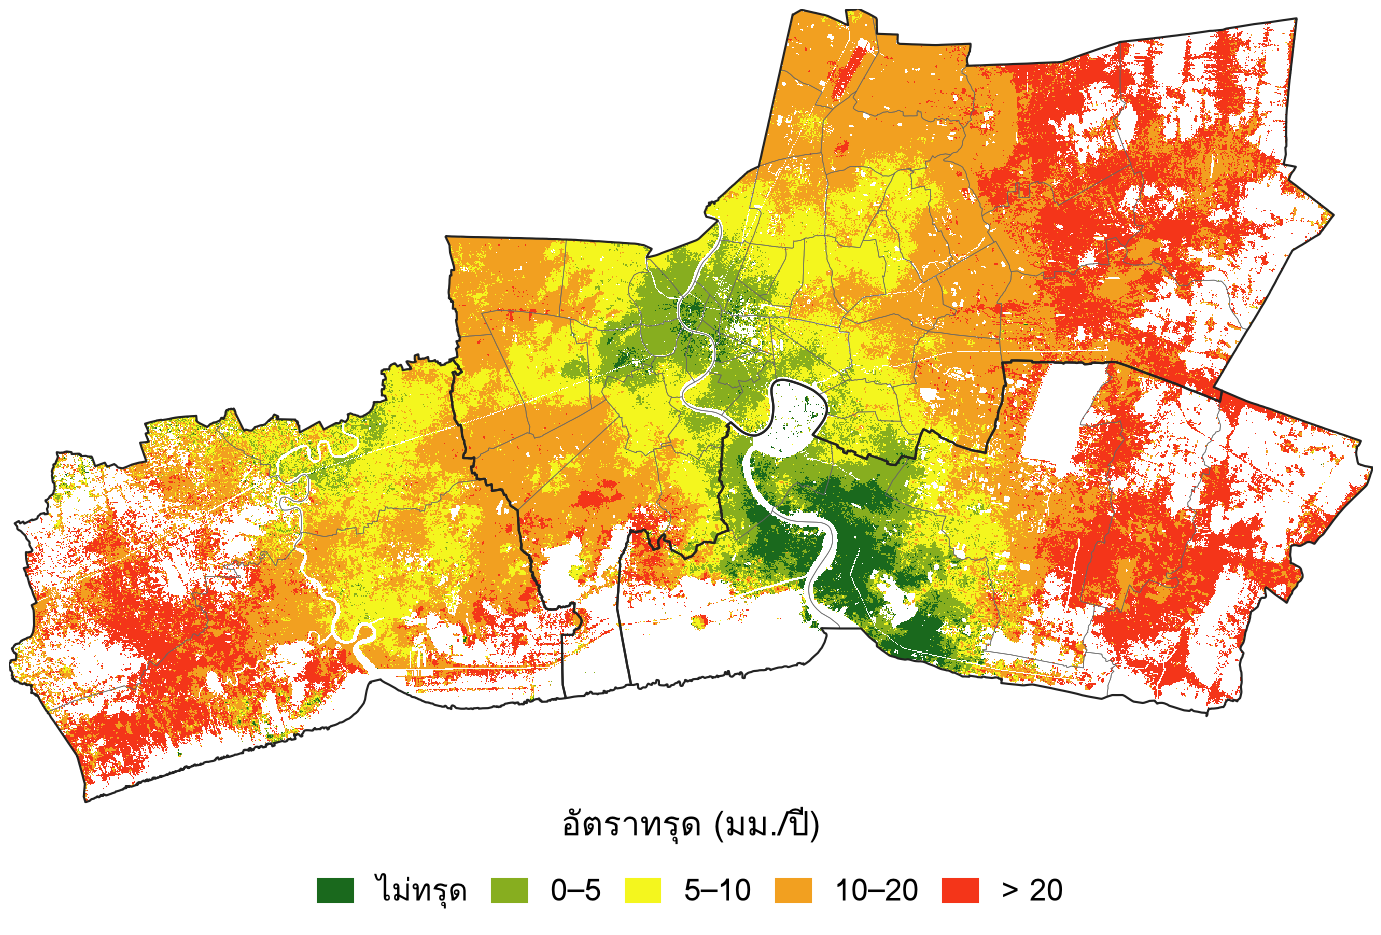
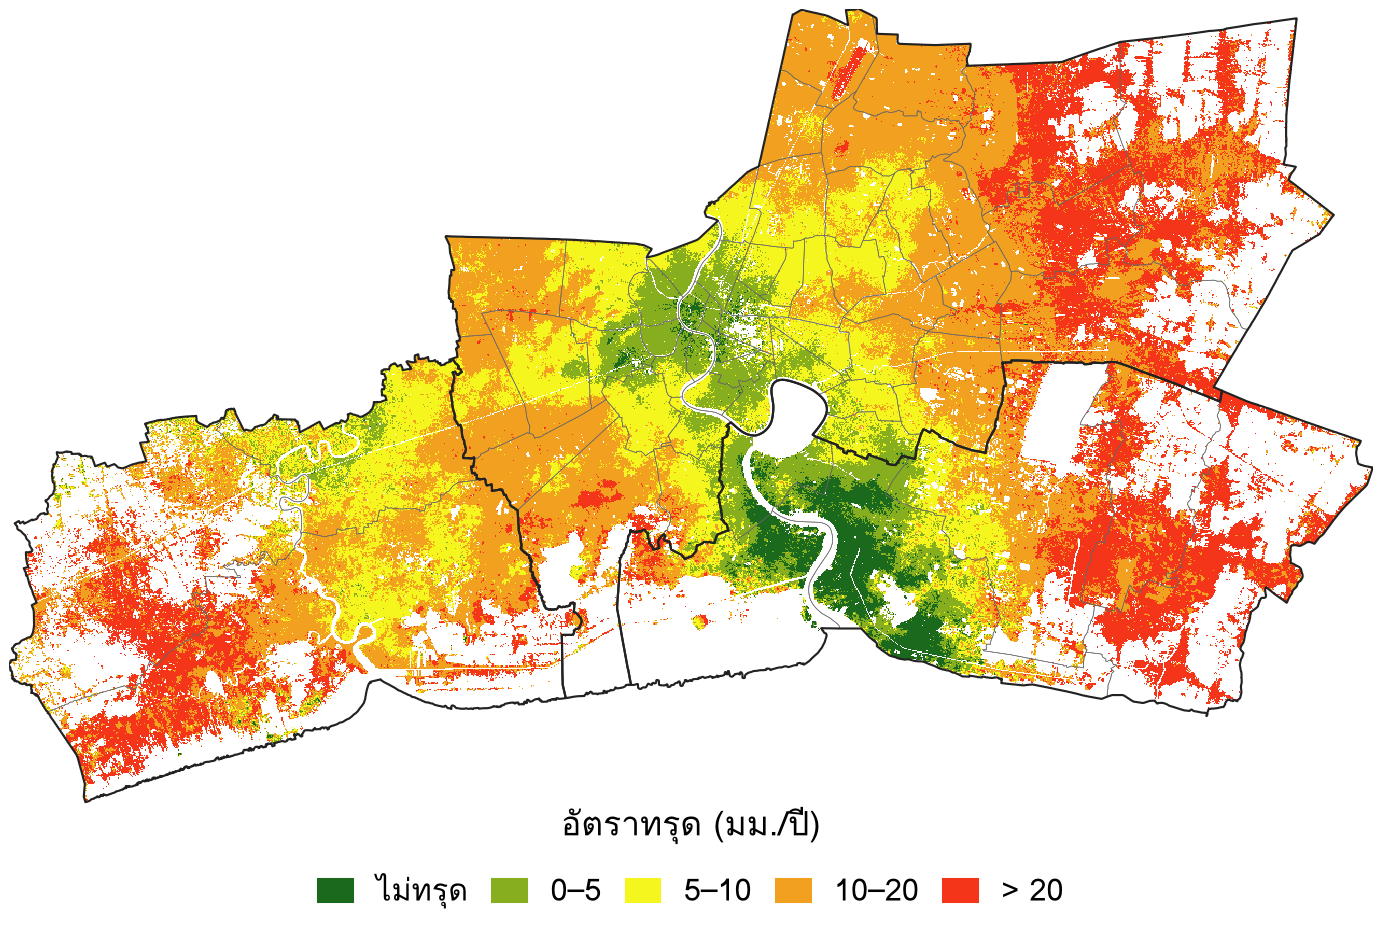
Earthquake maps share one pixel footprint (valid before, during and after)
Claude-Session: https://claude.ai/code/session_01FiiJ9Vao5pznzgtCE7Jjx1

diff --git a/scripts/eq_panels.py b/scripts/eq_panels.py
@@ -1,4 +1,4 @@
-"""Three same-size maps for the earthquake slide: before (rate), during (12-day vertical displacement), after (rate).
+"""Three same-size maps (same pixel footprint) for the earthquake slide: before (rate), during (12-day vertical displacement), after (rate).
 
     python scripts/eq_panels.py docs/slides   ->  eq_before.png, eq_during.png, eq_after.png
 Inputs in results/eq/ (main pre/post run of psykorollin/FinalNH, branch claude/pipeline-execution-results-domd4k);
@@ -23,11 +23,21 @@ prov = adm.dissolve('adm1_name')
 tb = adm.total_bounds
 
 
-def load(f):
+def read(f):
     with rasterio.open(E / f) as s:
-        a = s.read(1).astype('float32'); b = s.bounds
-        m = geometry_mask(adm.geometry, a.shape, s.transform, invert=True)
-    return np.where(m, a, np.nan), [b.left, b.right, b.bottom, b.top]
+        return s.read(1).astype('float32'), s.transform, s.bounds
+
+
+# same footprint on all three maps: inside the study area and valid in before, during and after
+_, T, B = read('vlm_pre.tif')
+COMMON = geometry_mask(adm.geometry, read('vlm_pre.tif')[0].shape, T, invert=True)
+for f in ['vlm_pre.tif', 'vlm_post.tif', 'coseismic_up_mm.tif']:
+    COMMON &= np.isfinite(read(f)[0])
+
+
+def load(f):
+    a, _, b = read(f)
+    return np.where(COMMON, a, np.nan), [b.left, b.right, b.bottom, b.top]
 
 
 def draw(img, ext, cmap, vmin, vmax, handles, title, name):
